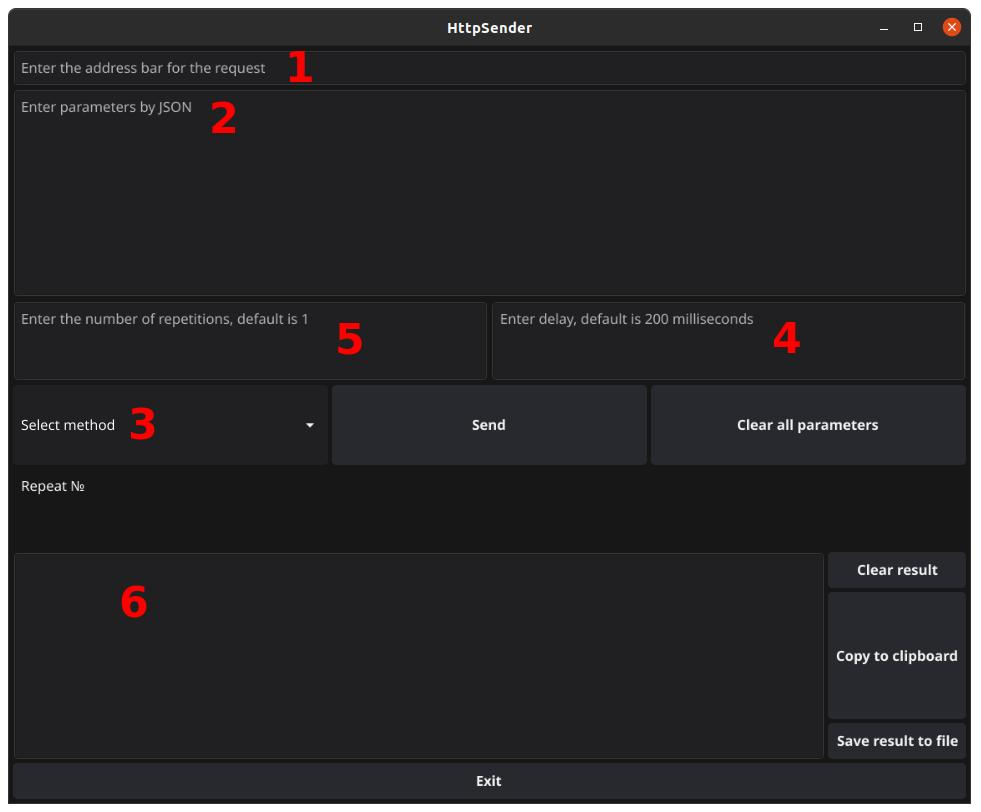
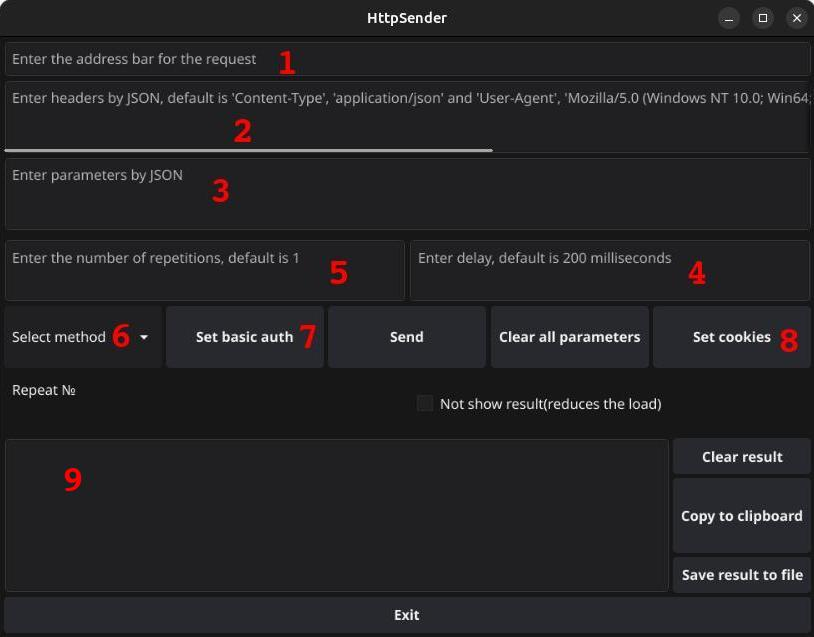
screen and readme are updated

diff --git a/README.md b/README.md
@@ -6,11 +6,14 @@ Libraries used https://github.com/fyne-io/fyne, https://github.com/fyne-io/fyne-
 
 ### Explanations:
 1. The query string is sent as is, with GET parameters.
-2. JSON with parameters
-3. Menu with selection of request method. There is no default value.
+2. JSON with headers.
+3. JSON with parameters.
 4. Delay between requests (with a given repetition).
 5. Number of request repetitions.
-6. Outputting the answer. When repeated, data is added.
+6. Menu with selection of request method. There is no default value.
+7. Setting up a basic authentication login and password.
+8. Setting cookies: name, value, expiration date (in hours).
+9. Outputting the answer. When repeated, data is added.
 
 The buttons also have self-explanatory names.
 
